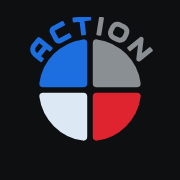
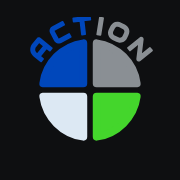
new clours

Changed region(s): [[0.1667, 0.1111, 0.5, 0.5], [0.5, 0.5, 0.8056, 0.8056], [0.3889, 0.0833, 0.5278, 0.1944]]

diff --git a/src/app/[locale]/[section]/calendar/[slug]/opengraph-image.tsx b/src/app/[locale]/[section]/calendar/[slug]/opengraph-image.tsx
@@ -1,0 +1,118 @@
+import { ImageResponse } from 'next/og';
+import { locales } from '@/i18n/config';
+import { SECTIONS, isSection, type SectionId } from '@/lib/sections';
+import { getEvent, getEvents } from '@/lib/events';
+import { formatDateRange } from '@/lib/date';
+import { localizedCountryName } from '@/lib/events-shared';
+import { LogoMark } from '@/components/Logo';
+
+/**
+ * DELNINGSBILD PER EVENT — genereras vid bygget (statisk export), en per
+ * event och språk. Filen heter "opengraph-image", så Next.js kopplar in den
+ * som og:image automatiskt. twitter-image.tsx återanvänder den.
+ *
+ * Inga externa typsnitt laddas (det skulle kräva nätverk under bygget);
+ * satori använder sitt inbyggda typsnitt. lucide-ikoner fungerar inte i
+ * satori, därför egna små SVG-ikoner nedan.
+ */
+
+export const alt = 'Elementaction';
+export const size = { width: 1200, height: 630 };
+export const contentType = 'image/png';
+
+const ACCENT: Record<SectionId, string> = {
+  surfing: '#4a90f0',
+  skateboard: '#a3a8ad',
+  snowboard: '#dce8f3',
+  inspiration: '#44d62c'
+};
+const LABEL: Record<SectionId, string> = {
+  surfing: 'Water action',
+  skateboard: 'Concrete action',
+  snowboard: 'Snow action',
+  inspiration: 'Mind action'
+};
+
+export function generateStaticParams() {
+  return locales.flatMap((locale) =>
+    SECTIONS.flatMap((section) => getEvents(section).map((e) => ({ locale, section, slug: e.slug })))
+  );
+}
+
+function Pin({ color }: { color: string }) {
+  return (
+    <svg width={28} height={28} viewBox="0 0 24 24" fill="none" stroke={color} strokeWidth={2}>
+      <path d="M20 10c0 6-8 12-8 12s-8-6-8-12a8 8 0 0 1 16 0Z" />
+      <circle cx={12} cy={10} r={3} />
+    </svg>
+  );
+}
+
+function Cal({ color }: { color: string }) {
+  return (
+    <svg width={28} height={28} viewBox="0 0 24 24" fill="none" stroke={color} strokeWidth={2}>
+      <rect x={3} y={4} width={18} height={18} rx={2} />
+      <line x1={16} y1={2} x2={16} y2={6} />
+      <line x1={8} y1={2} x2={8} y2={6} />
+      <line x1={3} y1={10} x2={21} y2={10} />
+    </svg>
+  );
+}
+
+export default function Image({ params }: { params: { locale: string; section: string; slug: string } }) {
+  const { locale, section, slug } = params;
+  const s: SectionId = isSection(section) ? section : 'skateboard';
+  const event = getEvent(s, slug);
+  const date = event ? formatDateRange(event, locale) : '';
+  const country = event ? localizedCountryName(event.location.countryCode, locale, event.location.country) : '';
+  const place = event ? [event.location.city, country].filter(Boolean).join(', ') : '';
+  const accent = ACCENT[s];
+
+  return new ImageResponse(
+    (
+      <div
+        style={{
+          width: '100%',
+          height: '100%',
+          display: 'flex',
+          flexDirection: 'column',
+          justifyContent: 'space-between',
+          padding: 64,
+          backgroundColor: '#0e0f11',
+          fontFamily: 'sans-serif'
+        }}
+      >
+        {/* sektionens färg som en bred list i vänsterkanten */}
+        <div style={{ display: 'flex', position: 'absolute', left: 0, top: 0, bottom: 0, width: 14, backgroundColor: accent }} />
+
+        <div style={{ display: 'flex', alignItems: 'center', justifyContent: 'space-between' }}>
+          <div style={{ display: 'flex', fontSize: 28, fontWeight: 700, color: accent }}>{LABEL[s]}</div>
+          <LogoMark size={120} />
+        </div>
+
+        <div style={{ display: 'flex', flexDirection: 'column', gap: 26 }}>
+          <div style={{ display: 'flex', fontSize: 68, fontWeight: 800, lineHeight: 1.06, maxWidth: 1060, color: '#f4f5f6' }}>
+            {event?.name ?? 'Elementaction'}
+          </div>
+          <div style={{ display: 'flex', alignItems: 'center', gap: 34 }}>
+            {date && (
+              <div style={{ display: 'flex', alignItems: 'center', gap: 10 }}>
+                <Cal color={accent} />
+                <div style={{ display: 'flex', fontSize: 30, color: '#c9cdd2' }}>{date}</div>
+              </div>
+            )}
+            {place && (
+              <div style={{ display: 'flex', alignItems: 'center', gap: 10 }}>
+                <Pin color={accent} />
+                <div style={{ display: 'flex', fontSize: 30, color: '#c9cdd2' }}>{place}</div>
+              </div>
+            )}
+          </div>
+        </div>
+
+        <div style={{ display: 'flex', fontSize: 24, color: '#8a9099' }}>elementaction.com</div>
+      </div>
+    ),
+    { ...size }
+  );
+}

diff --git a/src/components/Logo.tsx b/src/components/Logo.tsx
@@ -6,8 +6,8 @@ import { MIND_HEAD, WATER_RIDER, WATER_WAVE } from './brand-traced';
  * ELEMENTACTIONS MÄRKEN — ritade efter Martins egna utkast.
  *
  * Huvudmärket (efter Martins utkast): en cirkel delad i fyra lika stora
- * färgfält med rundade hörn (vatten blått, betong grått, snö isvitt, mind
- * rött) och ordet ACTION i bågen ovanför — ACT blått, ION grått.
+ * färgfält med rundade hörn (vatten blått Pantone 2728 C, betong grått, snö isvitt, mind
+ * grönt Pantone 802 C) och ordet ACTION i bågen ovanför — ACT blått, ION grått.
  * Ordet "Element" står aldrig i märket.
  *
  * Sektionsmärkena: en rund bricka i sektionens färg, ACTION överst och
@@ -31,10 +31,10 @@ type MarkProps = { size?: number; className?: string; title?: string };
 const WHITE = '#f5f8fb';
 
 export const BADGE: Record<SectionId, { bg: string; ink: string; text: string }> = {
-  surfing: { bg: '#1d6fe0', ink: WHITE, text: WHITE },
+  surfing: { bg: '#0047bb', ink: WHITE, text: WHITE },
   skateboard: { bg: '#8a8f94', ink: WHITE, text: WHITE },
   snowboard: { bg: '#dce8f3', ink: '#0d2240', text: '#0d2240' },
-  inspiration: { bg: '#e0242f', ink: WHITE, text: WHITE }
+  inspiration: { bg: '#44d62c', ink: WHITE, text: WHITE }
 };
 
 /**
@@ -173,13 +173,13 @@ function quadrant(sx: number, sy: number) {
   return `M${f(x0)} ${f(y0)}V${f(50 + sy * E)}A${r} ${r} 0 0 ${sweep} ${f(50 + sx * E)} ${f(y0)}z`;
 }
 
-const BLUE = '#1d6fe0';
+const BLUE = '#0047bb'; // Pantone 2728 C (ungefär)
 const GREY = '#8a8f94';
 const QUADRANTS: [string, string][] = [
   [BLUE, quadrant(-1, -1)], // uppe vänster: vatten
   [GREY, quadrant(1, -1)], // uppe höger: betong
   ['#dce8f3', quadrant(-1, 1)], // nere vänster: snö
-  ['#e0242f', quadrant(1, 1)] // nere höger: mind
+  ['#44d62c', quadrant(1, 1)] // nere höger: mind, Pantone 802 C (ungefär)
 ];
 
 /**

diff --git a/src/components/SectionArt.tsx b/src/components/SectionArt.tsx
@@ -191,9 +191,9 @@ function FireArt(props: SvgProps) {
           <stop offset="1" stopColor="#5f6871" />
         </linearGradient>
         <linearGradient id="ti-red" x1="0" y1="0" x2="1" y2="1">
-          <stop offset="0" stopColor="#ff5a62" />
-          <stop offset=".55" stopColor="#e0242f" />
-          <stop offset="1" stopColor="#8f0d15" />
+          <stop offset="0" stopColor="#8af276" />
+          <stop offset=".55" stopColor="#44d62c" />
+          <stop offset="1" stopColor="#1a7a10" />
         </linearGradient>
       </defs>
       <rect width="600" height="600" fill="url(#ti-sky)" />
@@ -207,7 +207,7 @@ function FireArt(props: SvgProps) {
       <path d="M340 600c20-170 110-290 300-330v330z" fill="url(#ti-a)" />
       {/* mittvolym */}
       <path d="M190 600c-30-180 20-370 160-490 60-50 120-60 160-40-80 50-140 150-150 290-8 100 10 180 30 240z" fill="url(#ti-b)" />
-      {/* den röda volymen — eld */}
+      {/* den gröna volymen — mind (Pantone 802) */}
       <path d="M290 340c30-130 120-225 290-270-75 75-115 170-120 300-55-17-110-27-170-30z" fill="url(#ti-red)" />
       <path d="M300 335c40-120 130-210 270-255" fill="none" stroke="#ffffff" strokeOpacity=".45" strokeWidth="1.2" />
       {/* vänster volym */}

diff --git a/src/app/globals.css b/src/app/globals.css
@@ -19,7 +19,7 @@
  *   Surfing   (vatten)   : djuphavsblått, skumvitt
  *   Skateboard (betong)  : betonggrått, kritvitt, röd spraytagg
  *   Snowboard (snö)      : snövitt, isblått, bläckblått
- *   Inspiration (eld)    : titan (Guggenheim Bilbao), signalrött
+ *   Inspiration (mind)   : titan (Guggenheim Bilbao), grönt (Pantone 802)
  */
 :root,
 [data-section='home'] {
@@ -83,12 +83,12 @@
   --sec-deep: 180 187 194;
   --sec-ink: 24 25 27;
   --sec-muted: 84 90 97;
-  --sec-accent: 224 36 47;
+  --sec-accent: 23 128 15; /* mörkare grön av Pantone 802 så att text och knappar går att läsa på titanbotten */
   --sec-accent-ink: 255 255 255;
   --sec-line: 24 25 27;
   --sec-card: 238 240 242;
   --sec-font: 'Syne Variable';
-  --sec-paper-accent: 200 29 39;
+  --sec-paper-accent: 23 128 15;
   --sec-weight: 760;
 }
 

diff --git a/src/lib/sections.ts b/src/lib/sections.ts
@@ -30,10 +30,10 @@ export const SECTION_CATEGORIES: Record<SectionId, readonly string[]> = {
 
 /** Färg per sektion — samma värden som i globals.css, för SVG/inline-bruk. */
 export const SECTION_COLORS: Record<SectionId, { main: string; ink: string }> = {
-  surfing: { main: '#1d6fe0', ink: '#06213f' },
+  surfing: { main: '#0047bb', ink: '#06213f' }, // Pantone 2728 C (ungefär)
   skateboard: { main: '#8a8f94', ink: '#1c1d1f' },
   snowboard: { main: '#f5f8fb', ink: '#0d2240' },
-  inspiration: { main: '#e0242f', ink: '#2a0a0d' }
+  inspiration: { main: '#44d62c', ink: '#0b2a08' } // Pantone 802 C (ungefär)
 };
 
 /** Statiska params för sidor under /[section] (krävs per sida av statisk export i `next dev`). */

diff --git a/src/app/[locale]/page.tsx b/src/app/[locale]/page.tsx
@@ -13,7 +13,7 @@ const HEADLINE_COLORS: Record<SectionId, string> = {
   surfing: '#4a90f0',
   skateboard: '#a3a8ad',
   snowboard: '#dce8f3',
-  inspiration: '#ef3b45'
+  inspiration: '#44d62c'
 };
 
 export default async function HomePage({ params: { locale } }: { params: { locale: string } }) {

diff --git a/README.md b/README.md
@@ -4,12 +4,12 @@
 
 | Sektion | Märke | Färg | Rubrikfont | Bildvärld |
 |---|---|---|---|---|
-| Surfing | Water action (surfare i våg, Martins utkast) | blå | Fraunces | dyningslinjer och en brytande våg |
+| Surfing | Water action (surfare i våg, Martins utkast) | blå (Pantone 2728) | Fraunces | dyningslinjer och en brytande våg |
 | Skateboard | Concrete action (skejtare i quarterpipe) | grå | Archivo Black | betongfogar, bowl och bräda |
 | Snowboard | Snow action (åkare under bergstopp) | vit | Space Grotesk | berg i lager med fallande snö |
-| Inspiration | Mind action (huvud med spiral, Martins utkast) | röd på titan | Syne | böjda titanvolymer, som Guggenheim i Bilbao |
+| Inspiration | Mind action (huvud med spiral, Martins utkast) | grön (Pantone 802) på titan | Syne | böjda titanvolymer, som Guggenheim i Bilbao |
 
-Huvudmärket är en cirkel delad i fyra lika stora fält i sektionsfärgerna, med rundade hörn, och ACTION i bågen ovanför (ACT blått, ION grått, typsnitt Audiowide). Sektionsmärkena är runda brickor med ACTION överst och ett motiv; i menyn används förenklade varianter utan text. Namnet skrivs alltid
+Huvudmärket är en cirkel delad i fyra lika stora fält i sektionsfärgerna, med rundade hörn, och ACTION i bågen ovanför (ACT blått (Pantone 2728 C), ION grått, typsnitt Audiowide; Mind-fältet grönt (Pantone 802 C)). Sektionsmärkena är runda brickor med ACTION överst och ett motiv; i menyn används förenklade varianter utan text. Namnet skrivs alltid
 som ett ord, **Elementaction**. Märkena finns som SVG i `public/brand/`
 (`mark.svg`, `mark-water.svg`, `mark-concrete.svg`, `mark-snow.svg`, `mark-mind.svg`).
 
